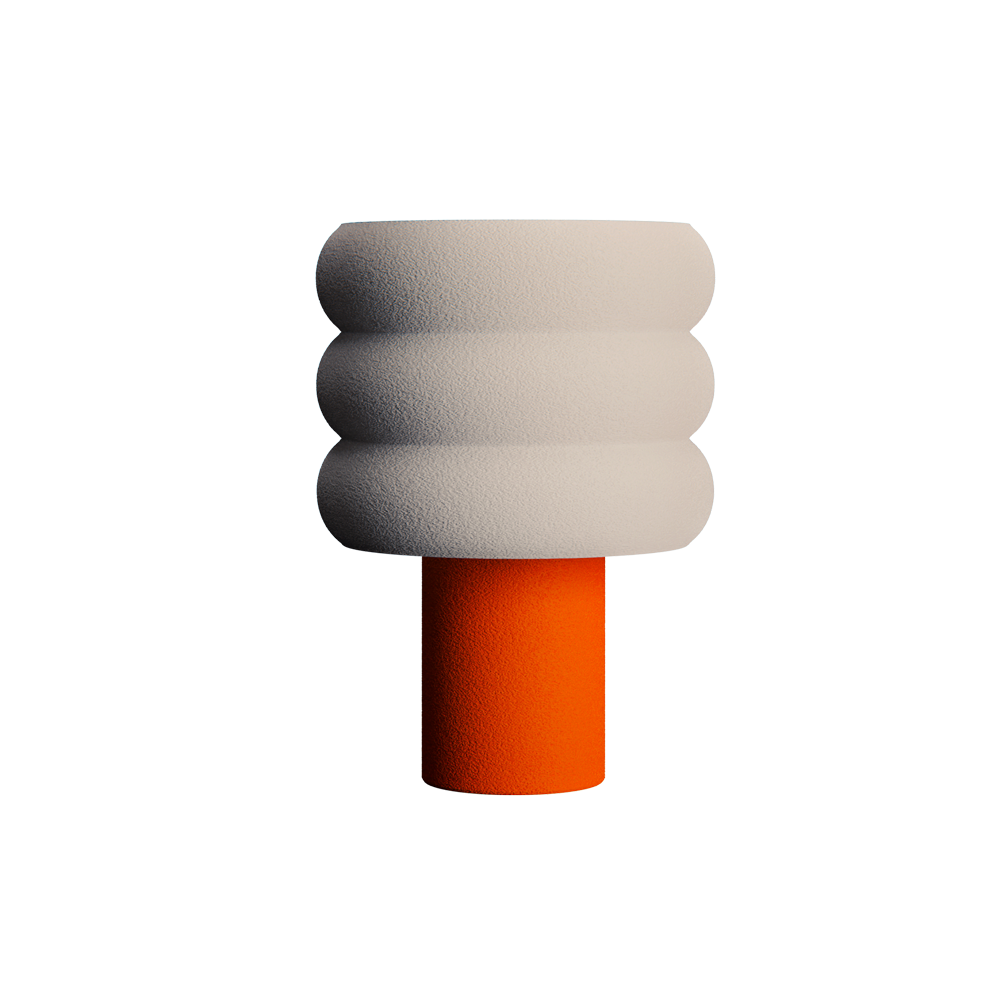
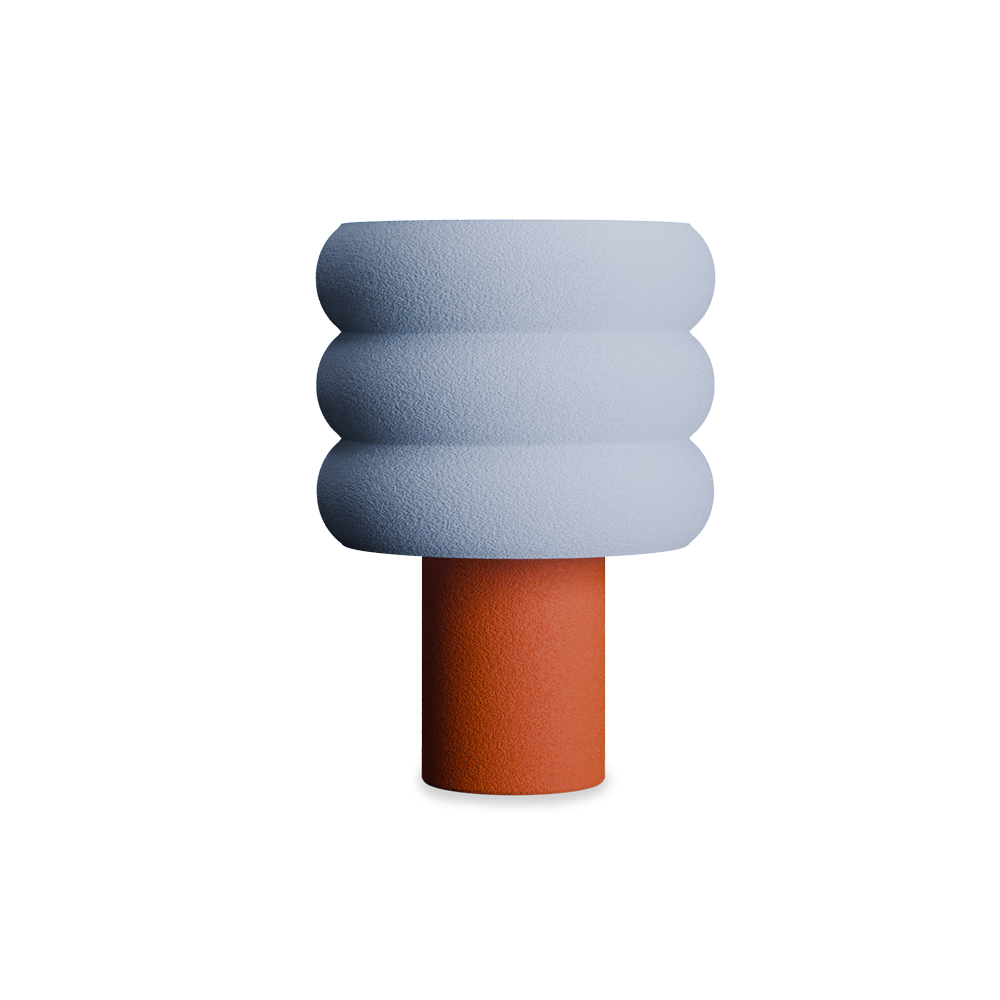
collection model updated

Changed region(s): [[0.31, 0.217, 0.713, 0.806]]

diff --git a/components/collection/CollectionHero.tsx b/components/collection/CollectionHero.tsx
@@ -2,7 +2,6 @@
 
 import { useCallback, useEffect, useMemo, useRef, useState } from "react";
 import Image from "next/image";
-import useEmblaCarousel from "embla-carousel-react";
 import { ArrowLeft, ArrowRight } from "lucide-react";
 import { AnimatePresence, motion, useReducedMotion } from "motion/react";
 
@@ -409,11 +408,6 @@ export default function CollectionHero({ slides }: CollectionHeroProps) {
   const [selectedIndex, setSelectedIndex] = useState(0);
   const [direction, setDirection] = useState<1 | -1>(1);
   const shouldReduceMotion = Boolean(useReducedMotion());
-  const [emblaRef, emblaApi] = useEmblaCarousel({
-    loop: true,
-    align: "center",
-    skipSnaps: false,
-  });
 
   const palettes = useMemo(() => slides.map((slide) => createColorBuffer(slide.colors)), [slides]);
   const currentPaletteRef = useRef(palettes[0].slice());
@@ -425,45 +419,15 @@ export default function CollectionHero({ slides }: CollectionHeroProps) {
   const activePalette = palettes[selectedIndex] ?? palettes[0];
   const slideCount = slides.length;
 
-  const handleSelect = useCallback(
-    (api: NonNullable<typeof emblaApi>) => {
-      const previousIndex = api.previousScrollSnap();
-      const nextIndex = api.selectedScrollSnap();
-
-      if (previousIndex === slideCount - 1 && nextIndex === 0) {
-        setDirection(1);
-      } else if (previousIndex === 0 && nextIndex === slideCount - 1) {
-        setDirection(-1);
-      } else {
-        setDirection(nextIndex >= previousIndex ? 1 : -1);
-      }
-
-      setSelectedIndex(nextIndex);
-    },
-    [slideCount]
-  );
-
   const scrollPrevious = useCallback(() => {
     setDirection(-1);
-    emblaApi?.scrollPrev();
-  }, [emblaApi]);
+    setSelectedIndex((index) => (index - 1 + slideCount) % slideCount);
+  }, [slideCount]);
 
   const scrollNext = useCallback(() => {
     setDirection(1);
-    emblaApi?.scrollNext();
-  }, [emblaApi]);
-
-  useEffect(() => {
-    if (!emblaApi) return;
-
-    emblaApi.on("select", handleSelect);
-    emblaApi.on("reInit", handleSelect);
-
-    return () => {
-      emblaApi.off("select", handleSelect);
-      emblaApi.off("reInit", handleSelect);
-    };
-  }, [emblaApi, handleSelect]);
+    setSelectedIndex((index) => (index + 1) % slideCount);
+  }, [slideCount]);
 
   useEffect(() => {
     reducedMotionRef.current = shouldReduceMotion;
@@ -663,29 +627,18 @@ export default function CollectionHero({ slides }: CollectionHeroProps) {
         aria-hidden="true"
       />
 
-      <div ref={emblaRef} className="absolute inset-0 z-30 overflow-hidden">
-        <div className="flex h-full touch-pan-y cursor-grab active:cursor-grabbing">
-          {slides.map((slide, index) => (
-            <div
-              key={slide.id}
-              className="h-full min-w-0 flex-[0_0_100%]"
-              role="group"
-              aria-roledescription="slide"
-              aria-label={
-                slide.lampName +
-                " lamp, " +
-                slide.colorName +
-                ", slide " +
-                (index + 1) +
-                " of " +
-                slideCount
-              }
-              aria-current={index === selectedIndex ? "true" : undefined}
-              aria-hidden={index !== selectedIndex}
-            />
-          ))}
-        </div>
-      </div>
+      <div
+        className="absolute inset-y-0 left-0 z-30 w-1/2"
+        style={{ cursor: "w-resize" }}
+        onClick={scrollPrevious}
+        aria-hidden="true"
+      />
+      <div
+        className="absolute inset-y-0 right-0 z-30 w-1/2"
+        style={{ cursor: "e-resize" }}
+        onClick={scrollNext}
+        aria-hidden="true"
+      />
 
       <AnimatePresence initial={false} mode="sync" custom={direction}>
         <motion.div
@@ -724,7 +677,7 @@ export default function CollectionHero({ slides }: CollectionHeroProps) {
             </motion.div>
           </div>
 
-          <div className="absolute bottom-[15%] left-1/2 z-30 -translate-x-1/2 md:bottom-[12%]">
+          <div className="absolute bottom-[15%] left-[50.5%] z-30 -translate-x-1/2 md:bottom-[12%]">
             <motion.p
               className="whitespace-nowrap font-semibold uppercase tracking-[0.24em] text-white"
               variants={shouldReduceMotion ? REDUCED_VARIANTS : LABEL_VARIANTS}

diff --git a/app/collection/page.tsx b/app/collection/page.tsx
@@ -7,23 +7,23 @@ import CollectionViewed from "@/components/analytics/CollectionViewed";
 
 const COLLECTION_HERO_SLIDES = [
   {
-    id: "stack-blue",
+    id: "nasaq-blue",
     lampName: "NASAQ",
-    colorName: "BLUE",
-    image: "/stack-lamp/stack-lamp-blue-off.png",
+    colorName: "COBALT BLUE",
+    image: "/stack-lamp/stack-lamp-blue-off-shadow.png",
     colors: ["#101522", "#155EEF", "#C8DBFF", "#F7F9FF"],
   },
   {
     id: "pearl-red",
     lampName: "HAMRAH",
-    colorName: "RED",
-    image: "/pearl-lamp/pearl-lamp-red-off.png",
-    colors: ["#171013", "#D62335", "#FFD1CC", "#FFF7F4"],
+    colorName: "FIRE RED",
+    image: "/pearl-lamp/pearl-lamp-red-off-shadow.png",
+    colors: ["#171013", "#7c1d21", "#FFD1CC", "#FFF7F4"],
   },
   {
     id: "mushroom-orange",
     lampName: "KASANE",
-    colorName: "ORANGE",
+    colorName: "BURNT ORANGE",
     image: "/mushroom-lamp/mushroom-orange-off.png",
     colors: ["#141114", "#FF4B1F", "#FFDBD2", "#F8F6F3"],
   },
@@ -31,8 +31,8 @@ const COLLECTION_HERO_SLIDES = [
     id: "flute-matcha",
     lampName: "NUJĀJ",
     colorName: "MATCHA",
-    image: "/flute-lamp/flute-matcha-off.png",
-    colors: ["#101711", "#75984D", "#DCE8B9", "#F7F7ED"],
+    image: "/flute-lamp/flute-matcha-off-shadow.png",
+    colors: ["#101711", "#cfd5ad", "#e2efb8", "#F7F7ED"],
   },
 ] as const satisfies readonly CollectionHeroSlide[];
 
